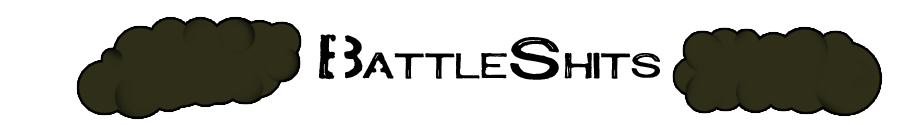
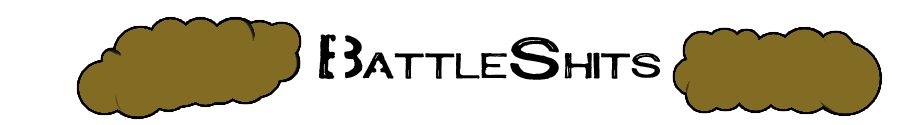
add header image / fixed spacing between buttons

Changed region(s): [[0.0622, 0.144, 0.3422, 0.936], [0.7467, 0.24, 0.9956, 0.912]]

diff --git a/index.html b/index.html
@@ -1,7 +1,7 @@
 <!DOCTYPE html>
 <html>
 <head>
-	<title>Battle the Shits</title>
+	<title>Battle of the Shits</title>
 	<!-- <link rel="stylesheet" href="https://maxcdn.bootstrapcdn.com/bootstrap/3.3.5/css/bootstrap.min.css">
  -->
  	<link rel="stylesheet" href="styles/bootstrap/bootstrap.min.css">
@@ -16,7 +16,9 @@
 </head>
 <body>
 	<div class="container game-grid">
-		<h1>BATTLESHITS!!!</h1>
+		<div id="header">
+			<!-- <h1>BATTLESHITS!!!</h1> -->
+		</div>
 		<div class="row">
 			<div class="col-md-2">
 				<div class="row ship-box">
@@ -35,11 +37,11 @@
 					<div class="btn" role="group">
 					  <button type="button" class="btn btn-default" id="newgame-button" data-toggle="modal" data-target="#userModal1">New Game</button>
 					</div>
-					<div class="btn" role="group">
-					  <button type="button" class="btn btn-success" id="endturnhit-button">End Turn</button>
+					<div class="btn" role="group" id="endturnhit-button">
+					  <button type="button" class="btn btn-success">End Turn</button>
 					</div>
-					<div class="btn" role="group">
-					  <button type="button" class="btn btn-success" id="endturnmiss-button">End Turn</button>
+					<div class="btn" role="group" id="endturnmiss-button">
+					  <button type="button" class="btn btn-success">End Turn</button>
 					</div>
 					<div class="btn" role="group">
 					  <button type="button" class="btn btn-default" id="tutorial">Tutorial</button>

diff --git a/styles/main.css b/styles/main.css
@@ -1,3 +1,11 @@
+#header {
+	background-image: url("../images/header1.png");
+	background-repeat: no-repeat;
+	background-size: 100% 100%;
+	text-align: center;
+	height: 125px;
+}
+
 .gameCell {
 	padding: 1em;
 	display: inline-block;
